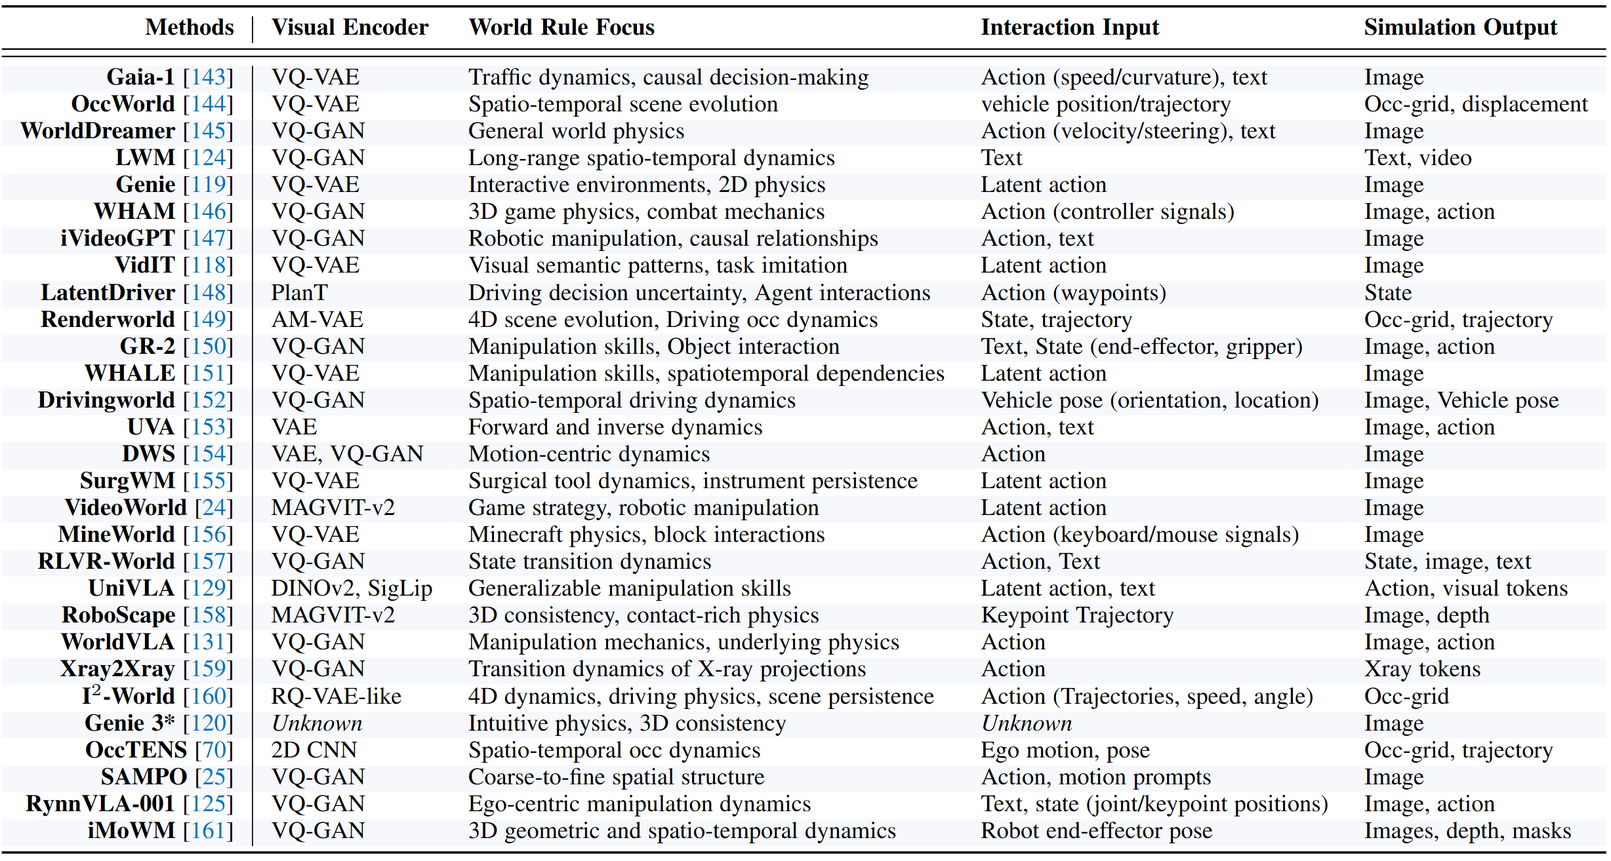
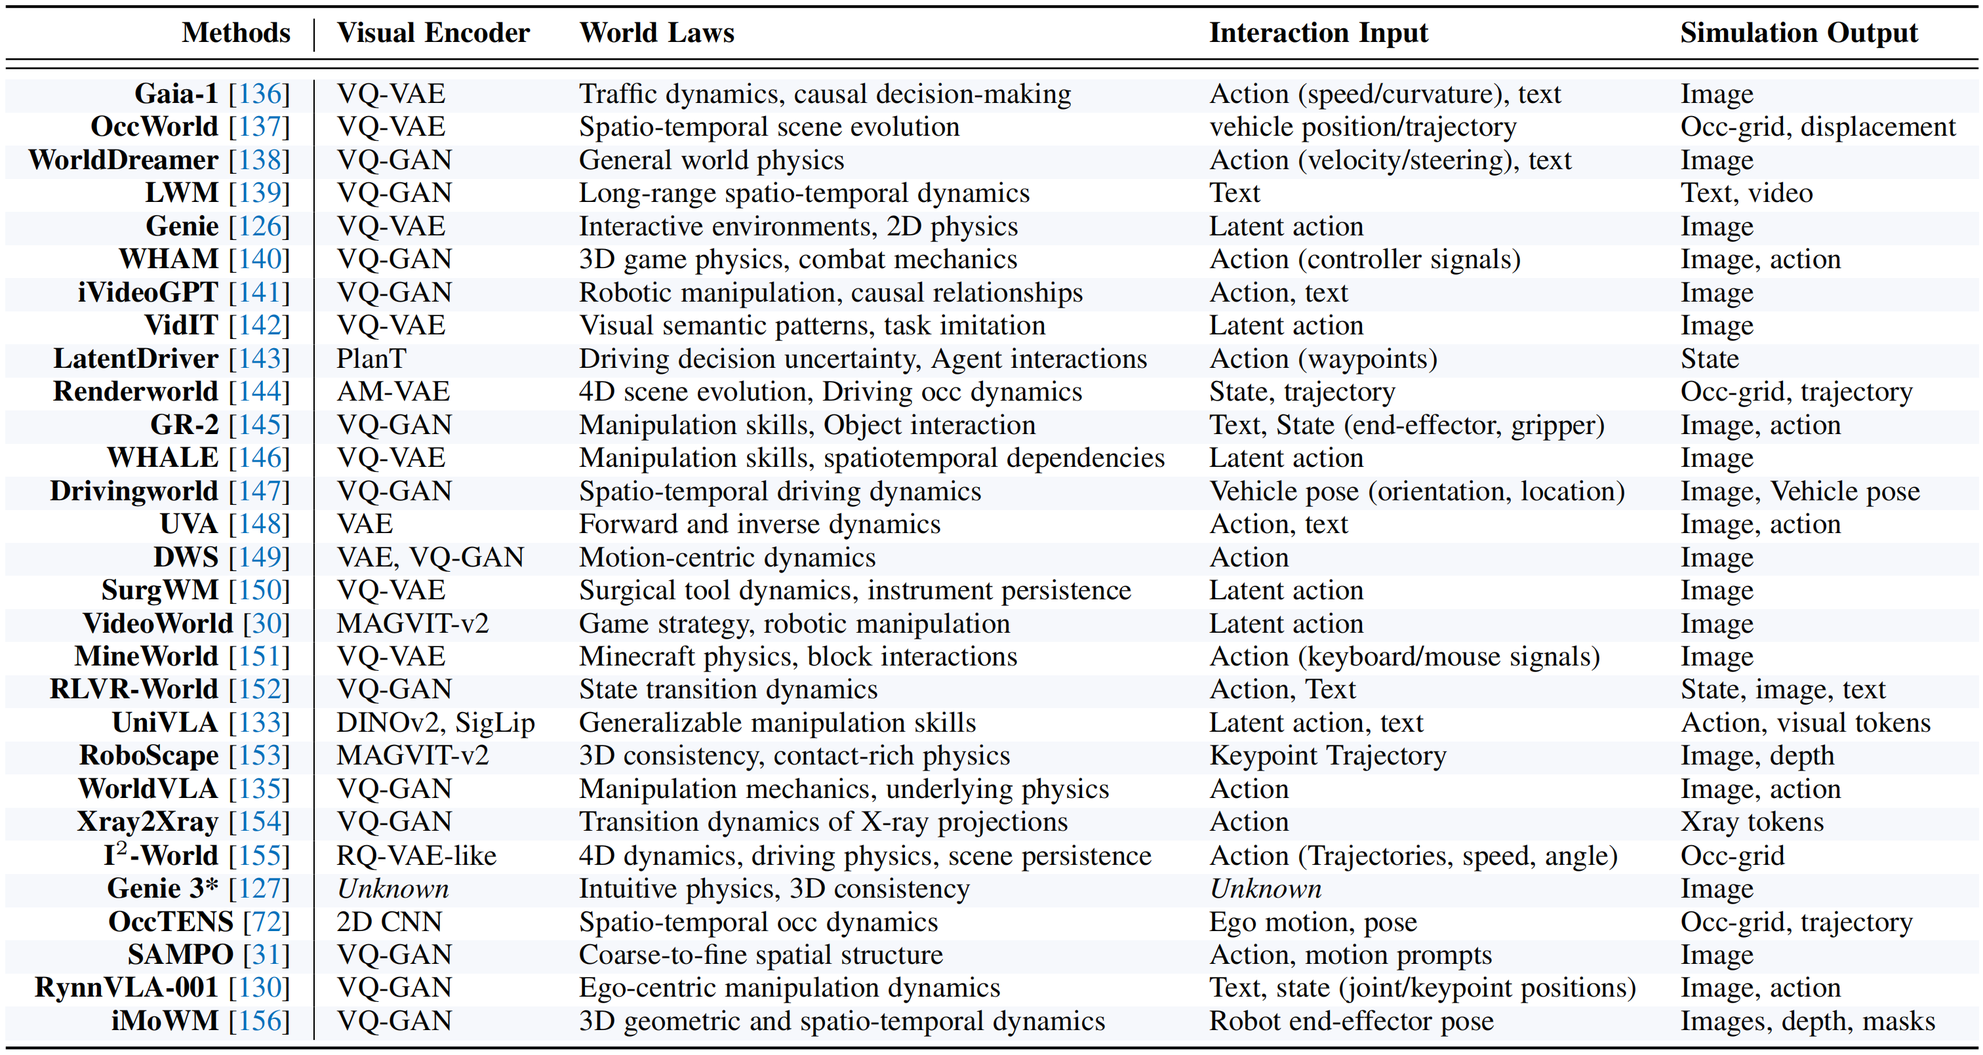
add new figs

Changed region(s): [[0.0, 0.0, 1.0, 0.9985]]

diff --git a/survey/index.html b/survey/index.html
@@ -12,7 +12,17 @@
   background-clip: text; /* 兼容性优化 */
   font-weight: 600;       /* 可以加粗一点 */
 }
+  .inline-icon {
+    height: 14px; /* 对应 LaTeX 中的 0.33cm，约等于 13-14px */
+    width: auto;  /* 保持图片比例 */
+    vertical-align: -2px; /* 对应 LaTeX 中的 \raisebox，微调垂直对齐 */
+    margin-left: 4px; /* 增加一点间距 */
+    margin-right: 2px;
+  }
+
   </style>
+
+  
 
 
   <meta charset="utf-8">
@@ -53,6 +63,19 @@
   <script src="./static/js/bulma-carousel.min.js"></script>
   <script src="./static/js/bulma-slider.min.js"></script>
   <script src="./static/js/index.js"></script>
+
+  <script>
+    window.MathJax = {
+      tex: {
+        inlineMath: [['\\(', '\\)'], ['$', '$']], // 支持 \( ... \) 和 $ ... $
+        displayMath: [['$$', '$$'], ['\\[', '\\]']] // 支持 $$ ... $$ 和 \[ ... \]
+      }
+    };
+  </script>
+  <script id="MathJax-script" async
+    src="https://cdn.jsdelivr.net/npm/mathjax@3/es5/tex-mml-chtml.js">
+  </script>
+
 </head>
 <body>
 
@@ -102,7 +125,7 @@
               <a href="https://yanshuicheng.info/">Shuicheng Yan</a><sup>2</sup>,
             </span>
             <span class="author-block">
-              <a href="https://weiyc.github.io/">Yunchao Wei</a><sup>1,&#9993;</sup>,
+              <a href="https://weiyc.github.io/">Yunchao Wei</a><sup>1,3,&#9993;</sup>,
             </span>
             <span class="author-block">
               <a href="https://scholar.google.com/citations?user=OEZ816YAAAAJ&hl=en">Xiaojie Jin</a><sup>1,&#9993;,†</sup>
@@ -111,7 +134,8 @@
 
           <div class="is-size-5 publication-authors">
             <span class="author-block"><sup>1</sup>Beijing Jiaotong University,</span>
-            <span class="author-block"><sup>2</sup>National University of Singapore</span>
+            <span class="author-block"><sup>2</sup>National University of Singapore,</span>
+            <span class="author-block"><sup>3</sup>Beijing Academy of Artificial Intelligence</span>
           </div>
 
           <div class="is-size-5 publication-authors">
@@ -259,12 +283,13 @@ sub-categories). -->
         <div class="content has-text-justified">
           <p style="font-size: 20px;">
             <font face="Georgia">
-              The ability to understand, simulate, and interact with the physical world through visual observation is fundamental to Artificial General Intelligence. 
-Vision world model (VWM), a system that learns to simulate environmental dynamics directly from high-dimensional visual streams, emerges as a critical paradigm.
-However, rapid evolution across fragmented research communities creates a confusing landscape of conflicting terminologies, non-standardized evaluations, and redundant efforts, obscuring progress for the field. 
-We argue that resolving this fragmentation requires a shift from treating vision as a passive input challenge to viewing its <strong>visual nature</strong> as the central design driver.
-This survey provides the first technology-oriented analysis built on this vision-centric principle. We establish a unified framework that decomposes VWM into: <strong>the perceptual foundation</strong>, <strong>the cognitive core</strong>, and <strong>the key capability</strong>. We then present a comprehensive taxonomy of four main technical paradigms and provide an extensive review of the evaluation ecosystem across diverse world modeling domains.
-Finally, we discuss key challenges and future directions, aiming to unify the field and advance VWM toward foundational components for embodied intelligence that can truly comprehend and interact with the world.
+              The ability to learn world knowledge from visual observation and interact with the physical world is fundamental to Artificial General Intelligence (AGI).
+The Vision World Model (VWM) emerges as a critical paradigm and realizes this capability by learning to simulate world evolution directly from visual observations.
+However, rapid evolution within fragmented research communities creates inconsistent taxonomies and isolated evaluation progress.
+We argue that resolving this fragmentation requires a shift from treating vision as a passive input challenge to viewing the <strong>visual nature</strong> as the central design driver.
+Guided by this principle, we establish a unified framework that decomposes VWM research into three parts: the perceptual foundation, the dynamics core, and the key capability. Then, we dive into details of this framework by introducing technical taxonomies and the evaluation system.
+Finally, we discuss future directions organized around three dimensions: <strong>Re-grounding</strong> in physical and causal laws, <strong>Re-evaluating</strong> beyond visual fidelity, and <strong>Re-scaling</strong> for emergent capabilities,
+aiming to advance VWMs toward the pillar stone of generalist intelligence.
             </font>
           </p>
         </div>
@@ -281,14 +306,15 @@ Finally, we discuss key challenges and future directions, aiming to unify the fi
       <h2 class="title is-3">🚀 Motivation: Why a Vision-Centric Survey?</h2>
 
       <p>
-        Vision offers the richest and most direct connection to the physical world, but it is also the hardest to model. A VWM must learn from high-dimensional, complex visual streams, not tidy, low-dimensional state vectors.
-        Faced with this complexity, the research field has fragmented, with different communities focusing on different parts of the problem:
+        Vision serves as the primary carrier of the world's information, capturing granular dynamics, like the trajectory of shattering glass, that language alone cannot describe.
+        To simulate the <span class="gradient-text">world evolution*</span>, the field is converging on the <strong>Vision World Model (VWM)</strong> to learn evolutionary laws directly from visual observation.
+        Currently, research has branched into three distinct paradigms:
       </p>
 
       <ul>
-        <li>The <strong>video generation</strong> community treats VWMs as controllable synthesizers, prioritizing fidelity and temporal consistency.</li>
-        <li>The <strong>reinforcement learning/robotics</strong> community views them as learned dynamics simulators for sample-efficient planning and sim-to-real transfer.</li>
-        <li><strong>Predictive/JEPA-style</strong> approaches avoid pixel reconstruction, forecasting in representation spaces for downstream task utility.</li>
+        <li><strong>Video generation</strong> methods focus on modeling appearance (e.g., Diffusion, Autoregressive) to achieve high visual fidelity and continuity.</li>
+        <li><strong>State transition</strong> approaches compress visual signals into compact states (e.g., SSMs) to serve as latent dynamics simulators for planning and control.</li>
+        <li><strong>Embedding prediction/JEPA-style</strong> approaches forecast in latent spaces (e.g., JEPA), bypassing pixel details to prioritize semantic understanding.</li>
       </ul>
 
       <p>
@@ -304,6 +330,14 @@ Finally, we discuss key challenges and future directions, aiming to unify the fi
       </p>
     </div>
 
+    <hr style="margin-top: 2rem; margin-bottom: 1rem; border: 0; border-top: 1px solid #eee;">
+    <p id="footnote-1" style="font-size: 0.9em; color: #666;">
+      <a href="#ref-1" style="text-decoration: none; color: inherit;"></a> 
+      <span class="gradient-text">World evolution*</span>: refers to the spatio-temporal progression of the environment and the entities within it, encompassing the continuous unfolding of both physical states and logical events.
+    </p>
+
+    <br>
+
     <div class="content">
       <h2 class="title is-3">🧩 Conceptual Framework</h2>
 
@@ -311,8 +345,23 @@ Finally, we discuss key challenges and future directions, aiming to unify the fi
          At its core, a VWM is defined as follows:
       </p>
       <blockquote style="background-color: #f5f5f5; border-left: 5px solid #00d1b2; padding: 1.25em 1.5em;">
-         A vision world model is a system that understands and simulates the laws of the physical world through visual observation and conditioned interaction.
+         A vision world model is an AI model that learns to simulate the physical world through visual observation.
       </blockquote>
+
+      <p>
+        Formally, a VWM can be seen as a probabilistic model \( f_{\theta} \) that predicts the distribution of future states given observed visual context and interactive conditions:
+      </p>
+
+      <div style="overflow-x: auto; text-align: center; margin: 1.5rem 0;">
+        $$
+        p(\mathcal{S}_{t+1:T}| v_{0:t}, c_{t}) = f_{\theta} (\mathcal{E}(v_{0:t}), c_{t})
+        $$
+      </div>
+
+      <p>
+      where \( v_{0:t} \) represents the sequence of visual observations from time \( 0 \) to \( t \), and \( c_{t} \) represents current conditions (e.g., agent actions, language instructions, or control signals). \( \mathcal{E}( \cdot ) \) denotes the visual encoder that maps raw inputs into representations.
+      \( \mathcal{S}_{t+1:T} \) refers to the representations of future world states, which manifests in diverse ways depending on the specific modeling paradigm, including future observations (\( v_{t+1:T} \)), latent states (\( s_{t+1:T} \)), or other future properties (e.g., segmentation maps, depth, flow, 3D Gaussian splats, or trajectories).
+      </p>
 
       <p>
         Based on this, we establish a conceptual framework that decomposes VWM into three essential components:
@@ -321,13 +370,13 @@ Finally, we discuss key challenges and future directions, aiming to unify the fi
       <div class="hero-body" style="padding: 1.5rem 0;">
         <img src="./static/images/framework.png" alt="Conceptual framework of VWM">
         <p style="font-size: 16px; margin-top: 10px;">
-          <strong>Figure 2:</strong> The conceptual framework of VWM. A VWM receives the high-dimensional visual context and interaction conditions (action, instruction, etc.) of the physical world, and ultimately performs future simulations for this physical world.
+          <strong>Figure 2:</strong> The conceptual framework of VWM. A VWM receives the high-dimensional visual context and interaction conditions (action, instruction, etc.) of the physical world, and performs future simulations for this world.
         </p>
       </div>
 
       <ul>
-        <li><strong>(1) The Perceptual Foundation:</strong> How visual streams (RGB, depth, point clouds, etc.) are encoded into structured representations.</li>
-        <li><strong>(2) The Cognitive Core:</strong> What "rules of the world" are learned, progressing from spatio-temporal coherence to physical dynamics and causal reasoning.</li>
+        <li><strong>(1) The Perceptual Foundation:</strong> How diverse visual signals are transformed into world representation.</li>
+        <li><strong>(2) The Dynamics Core:</strong> What "laws of the world" are learned, progressing from spatio-temporal coherence to physical dynamics and causal reasoning.</li>
         <li><strong>(3) The Key Capability:</strong> How VWM performs controllable simulation conditioned on actions, language, or other interaction prompts.</li>
       </ul>
     </div>
@@ -345,44 +394,56 @@ Finally, we discuss key challenges and future directions, aiming to unify the fi
       <div class="hero-body" style="padding: 1.5rem 0;">
         <img src="./static/images/taxonomy.png" alt="Taxonomy of VWM designs">
         <p style="font-size: 16px; margin-top: 10px;">
-          <strong>Figure 3:</strong> A taxonomy of VWM designs, organized into 4 primary classes (with 7 sub-classes) along with other architectural approaches.
+          <strong>Figure 3:</strong> 
+          A taxonomy of VWM designs, organized into 4 primary classes (with 7 sub-classes). 
+          For each design, the upper panel illustrates its model architecture, while the lower panel 
+          summarizes its specific instantiation of the VWM framework (Section 2):
+          
+          <img src="./static/images/icon1.png" class="inline-icon" alt="Icon 1"> 
+          <em>World Representation</em>: The type of representation extracted from raw visual signals;
+          
+          <img src="./static/images/icon2.png" class="inline-icon" alt="Icon 2"> 
+          <em>Mechanism for Learning World laws</em>: The way to learn the laws governing world evolution;
+          
+          <img src="./static/images/icon3.png" class="inline-icon" alt="Icon 3"> 
+          <em>World Simulation</em>: The manifestation of the simulated future world.
         </p>
       </div>
 
-      <ol>
+      <ul>
         <li>
           <strong>Sequential Generation</strong>
-          <ul>
-             <li><strong>Autoregressive Transformers:</strong> Model complex visual dynamics as a sequence prediction problem, converting the world into discrete "visual language" tokens.</li>
-             <li><strong>MLLM as VWM Engine:</strong> Leverage the pre-trained knowledge of Multimodal Large Language Models to perform high-level semantic reasoning and symbolic simulation.</li>
-          </ul>
+          <ol>
+             <li><strong>Visual Autoregressive Modeling:</strong> Discretizes raw signals into a sequence of visual tokens and learns world laws via next-token prediction, enabling long-term generation through autoregressive rollouts.</li>
+             <li><strong>MLLM as VWM Engine:</strong> Maps observations into language-aligned tokens to leverage MLLM reasoning power, producing an interleaved multimodal stream of visual futures and textual plans.</li>
+          </ol>
         </li>
         <li>
           <strong>Diffusion-based Generation</strong>
-          <ul>
-             <li><strong>Latent Diffusion:</strong> Apply iterative denoising within a compressed latent space to model the next state, enabling high-fidelity synthesis efficiently.</li>
-             <li><strong>Autoregressive Diffusion:</strong> Combine step-by-step autoregressive reasoning with the high-fidelity synthesis of diffusion models to generate each future frame/token sequentially.</li>
-          </ul>
+          <ol start="3">
+             <li><strong>Latent Diffusion:</strong> Views modeling as a denoising process within compressed continuous latents, generating holistic, high-fidelity video clips in a non-sequential, all-at-once manner.</li>
+             <li><strong>Autoregressive Diffusion:</strong> A hybrid design that employs causal denoising conditioned on historical context to generate sequential denoised latents, ensuring both temporal consistency and visual quality.</li>
+          </ol>
         </li>
         <li>
-          <strong>Predictive Architectures</strong>
-          <ul>
-             <li><strong>JEPA:</strong> This non-generative paradigm models dynamics in an abstract representation space, predicting features rather than pixels to filter out irrelevant visual details.</li>
-          </ul>
+          <strong>Embedding Prediction</strong>
+          <ol start="5">
+             <li><strong>JEPA:</strong> A non-generative paradigm that encodes observations into contextual embeddings and learns laws via latent prediction, providing efficient representations for planning without pixel reconstruction.</li>
+          </ol>
         </li>
         <li>
-          <strong>State Transition Models</strong>
-          <ul>
-             <li><strong>Latent State-Space Modeling:</strong> Learn a holistic, global state vector (e.g., RSSM) to capture the comprehensive dynamics of the entire scene, prized for efficiency in model-based RL.</li>
-             <li><strong>Object-Centric Modeling:</strong> Introduce a strong compositional bias by decomposing the world into a set of discrete object representations and modeling their individual dynamics and interactions.</li>
-          </ul>
+          <strong>State Transition</strong>
+          <ol start="6">
+             <li><strong>State-Space Modeling:</strong> Compresses visual history into a compact recurrent state and models laws as linear updates, enabling efficient long-horizon state rollouts.</li>
+             <li><strong>Object-Centric Modeling:</strong> Decomposes observations into discrete object slots and learns world laws through slot interaction, allowing for generalization to novel object combinations.</li>
+          </ol>
         </li>
-      </ol>
+      </ul>
 
       <div class="hero-body" style="padding: 1.5rem 0;">
         <img src="./static/images/ar.png" alt="Taxonomy of VWM designs">
         <p style="font-size: 16px; text-align: center;margin-top: 10px;">
-          <strong>Table 1:</strong> Examples of autoregressive Transformer-based VWMs.
+          <strong>Table 1:</strong> Examples of visual autoregressive modeling VWMs.
         </p>
         <img src="./static/images/diffusion.png" alt="Taxonomy of VWM designs">
         <p style="font-size: 16px; text-align: center;margin-top: 10px;">
@@ -412,7 +473,7 @@ Finally, we discuss key challenges and future directions, aiming to unify the fi
     </div> -->
 
     <div class="content">
-      <h2 class="title is-3">📊 Evaluation Ecosystem</h2>
+      <h2 class="title is-3">📊 Evaluation System</h2>
       <p>
          We provide an extensive review of the evaluation landscape, cataloging metrics and distinguishing between datasets and benchmarks types.
       </p>
@@ -420,17 +481,24 @@ Finally, we discuss key challenges and future directions, aiming to unify the fi
       <div class="hero-body" style="padding: 1.5rem 0;">
         <img src="./static/images/evaluation.png" alt="Overview of the evaluation ecosystems of VWMs">
         <p style="font-size: 16px; text-align: center; margin-top: 10px;">
-          <strong>Figure 5:</strong> Overview of the evaluation ecosystems of VWMs.
+          <strong>Figure 5:</strong> Overview of the evaluation systems of VWMs.
         </p>
       </div>
 
       <h3 class="title is-4" style="margin-top: 1.5rem;">Metrics</h3>
       <ul>
-         <li><strong>Visual Quality:</strong> Assesses the fidelity of generated images/videos.</li>
-        <li><strong>Dynamics Prediction:</strong> Evaluates the accuracy of the learned "transition function".</li>
-        <li><strong>Task Execution:</strong> Measures the model's utility in downstream tasks.</li>
-        <li><strong>Physical Knowledge:</strong> Probes the model's understanding of "common sense" physics, such as object permanence and causality.</li>
+         <li><strong>Visual Quality:</strong> Assess the visual consistency of the simulation.</li>
+        <li><strong>Dynamics Fidelity:</strong> Probe the model's adherence to physical laws.</li>
+        <li><strong>Task Execution:</strong> Measure model's overall effectiveness in downstream tasks.</li>
+        <!-- <li><strong>Physical Knowledge:</strong> Probes the model's understanding of "common sense" physics, such as object permanence and causality.</li> -->
       </ul>
+
+      <div class="hero-body" style="padding: 1.5rem 0;">
+        <img src="./static/images/metric.png" alt="Summary of evaluation metrics for VWMs">
+        <p style="font-size: 16px; text-align: center; margin-top: 10px;">
+          <strong>Table 2:</strong> Summary of evaluation metrics for VWMs.
+        </p>
+      </div>
 
       <h3 class="title is-4" style="margin-top: 1.5rem;">Datasets and Benchmarks</h3>
       <ul>
@@ -438,7 +506,7 @@ Finally, we discuss key challenges and future directions, aiming to unify the fi
            <strong>General-Purpose World Modeling:</strong> Foundational benchmarks designed to evaluate core capabilities:
           <ul>
             <li><em>World Prediction and Simulation</em></li>
-            <li><em>Physical and Causal Reasoning</em></li>
+            <li><em>Physics and Causality</em></li>
           </ul>
         </li>
         <li>
@@ -450,26 +518,42 @@ Finally, we discuss key challenges and future directions, aiming to unify the fi
           </ul>
         </li>
       </ul>
+
+      <div class="hero-body" style="padding: 1.5rem 0;">
+        <img src="./static/images/db1.png" alt="General-purpose world modeling datasets and benchmarks">
+        <p style="font-size: 16px; text-align: center; margin-top: 10px;">
+          <strong>Table 3:</strong> General-purpose world modeling datasets and benchmarks.
+        </p>
+      </div>
+
+      <div class="hero-body" style="padding: 1.5rem 0;">
+        <img src="./static/images/db2.png" alt="Application-specific world modeling datasets and benchmarks">
+        <p style="font-size: 16px; text-align: center; margin-top: 10px;">
+          <strong>Table 4:</strong> Application-specific world modeling datasets and benchmarks.
+        </p>
+      </div>
+
+
     </div>
     
 
     <div class="content">
       <h2 class="title is-3">💡 Challenges and Future Directions</h2>
       <p>
-         We organize our analysis around three interconnected calls to action for the next generation of VWMs:
+         We organize our analysis around three interconnected calls to action for the next-generation world models:
       </p>
 
       <div class="hero-body" style="padding: 1.5rem 0;">
         <img src="./static/images/discussion.png" alt="Overview of challenges and future directions">
         <p style="font-size: 16px; text-align: center; margin-top: 10px;">
-           <strong>Figure 6:</strong> Overview of the challenges and future directions for the next generation VWM.
+           <strong>Figure 6:</strong> Overview of the challenges and future directions for the next-generation world models.
         </p>
       </div>
 
       <ol>
-         <li><strong>Re-grounding:</strong>  We must move beyond superficial imitation to establish robust foundations for deep physical and causal understanding, for example, by integrating physics rules or fusing neural-symbolic reasoning.</li>
-         <li><strong>Re-evaluation:</strong>  We call for a critical re-evaluation of metrics, challenging those that prioritize misleading visual fidelity over true physical plausibility and causal logic.</li>
-         <li><strong>Re-scaling:</strong>  We explore how VWMs can achieve their "GPT-3 moment" not through size alone, but by leveraging new scaling paradigms for reasoning, adaptation, and universal task solving.</li>
+         <li><strong>Re-grounding:</strong> Move beyond superficial imitation to establish robust foundations for deep understanding and simulation of the world.</li>
+         <li><strong>Re-evaluation:</strong> challenge the field's current metrics and benchmarks, which often prioritize misleading notions of visual fidelity over true physical and logical plausibility.</li>
+         <li><strong>Re-scaling:</strong> explore how strategic scaling can pivot towards unlocking unification for vision-centric world tasks and emergent capabilities.</li>
       </ol>
     </div>
 

diff --git a/index.html b/index.html
@@ -275,7 +275,7 @@
                  Xiao Yu, Yichen Zhang, Mingzhang Wang, Shifang Zhao, Weizhe Liu, Yuyang Yin, Zhongwei Ren, Yao Zhao, Jiashi Feng, Shuicheng Yan, Yunchao Wei, Xiaojie Jin
                 </p>
                 <p class="paper-meta">
-                Topic: World Model || 2025.11
+                Topic: World Model || 2026.1
                 </p>
                 <p class="paper-links">
                 <a href="https://aiworldlab.github.io/survey/" target="_blank" rel="noopener">[Project]</a>
